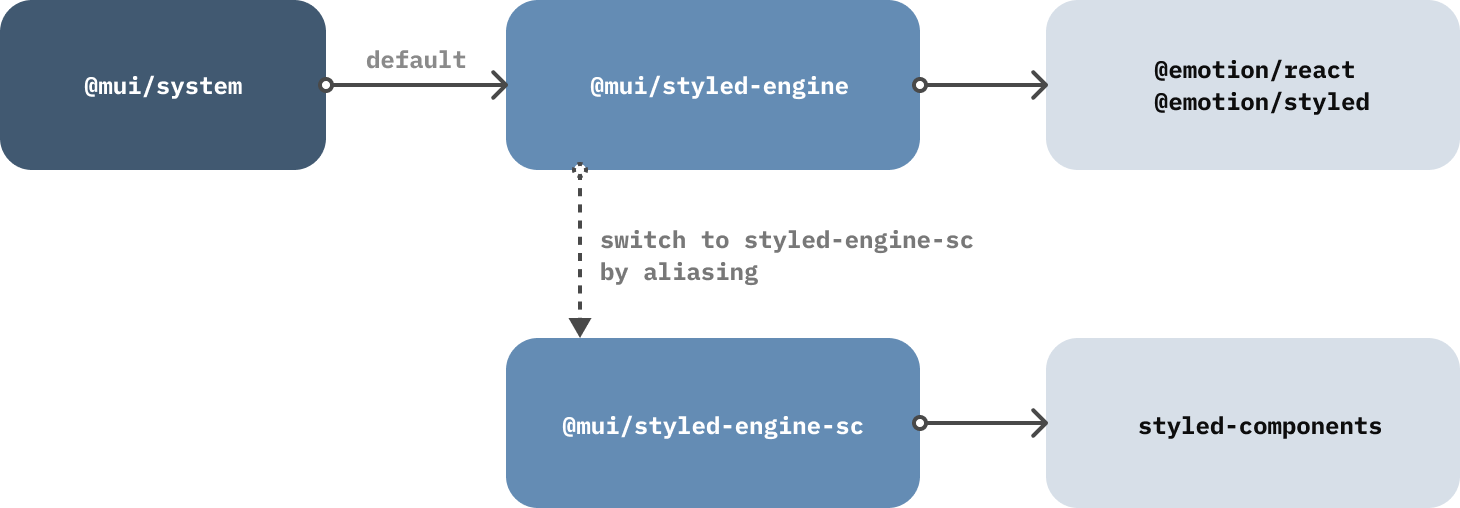
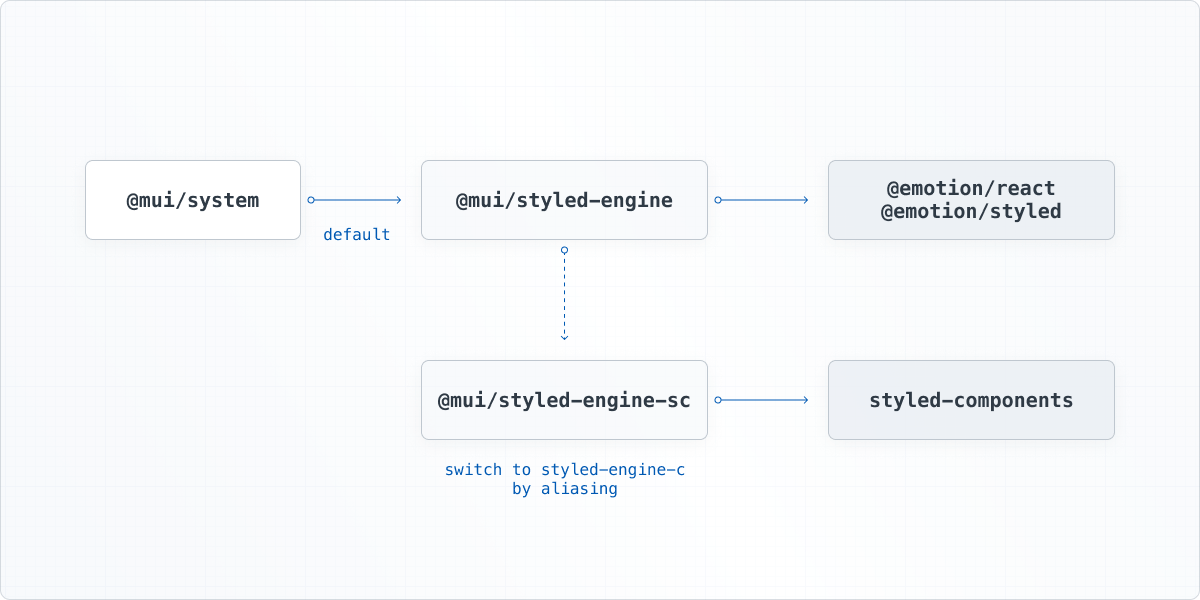
[docs] Revise the "Understanding MUI packages" article (#32382)

diff --git a/docs/data/material/guides/understand-mui-packages/understand-mui-packages.md b/docs/data/material/guides/understand-mui-packages/understand-mui-packages.md
@@ -2,107 +2,63 @@
 
 <p class="description">An overview of the MUI packages and the relationships between them.</p>
 
-## TL;DR
+## Overview
 
-- Use `@mui/material` if you want to use the components following the Material Design guidelines.
+- If you want to build a design system based on Material Design, use `@mui/material`.
+- If you want to build with components that give you complete control over your app's CSS, use `@mui/base`.
   :::info
-  💡 You can import styling APIs (eg. `ThemeProvider`, `styled`, etc.) directly from `@mui/material`.
+  MUI Base components are also included within`@mui/material`—no need to install Base separately if you're using Material UI.
   :::
-- Use `@mui/base` if you want to style the components from scratch using your preferred styling method.
-  :::info
-  💡 This package can be imported alongside `@mui/material` without an installation.
-  :::
-- Use `@mui/system` if you want APIs that enable building your own design system from scratch.
+- For CSS utilities to help in laying out custom designs with Material UI or MUI Base, use `@mui/system`.
+
+### Glossary
+
+- **install** refers to running `yarn add $module` or `npm install $module`.
+- **import** refers to making a module API available in your code by adding `import ... from '$module'`.
 
 ## MUI packages
 
 The following is an up-to-date list of `@mui` public packages.
 
 - `@mui/material`
-- `@mui/system`
 - `@mui/base`
+- `@mui/system`
 - `@mui/styled-engine`
 - `@mui/styled-engine-sc`
 - `@mui/styles`
 
-**Why does MUI have multiple packages? Why not just one?**
+### Understanding MUI's products
 
-MUI started as a single package that provided React Material Design components.
-However, as the library grew and more people started to use it, we saw an opportunity to break the main package down into smaller parts. For example, there was rising interest in specific use cases, such as using a version of the components without styles so as to use a preferred styling method, or using the MUI styling API to build a design system.
+As a company, MUI maintains a suite of open-source and open-core React UI projects.
+These projects live within two product lines: MUI Core and MUI X.
 
-For this reason, abstracting into smaller packages not only allows MUI to grow out of Material Design, but also extends how the library can be used, providing more flexibility and customizability.
+The following chart illustrates how MUI's packages are related to one another:
 
-The packages can be categorized into 3 layers, as shown in the picture below:
+<img src="/static/images/packages/mui-packages.png" style="width: 796px; margin-top: 4px; margin-bottom: 8px;" alt="The first half of the image shows @mui/material and @mui/base as component libraries, and @mui/system and styled engines as styling solutions, both under the MUI Core umbrella. The second half shows @mui/x-data-grid and @mui/x-date-pickers as components from MUI X."/>
 
-<img src="/static/images/packages/mui-packages.png" style="display: block; width: 448px; margin: auto;" />
+In this article, we'll only cover the MUI Core packages.
+Check the [MUI X overview](/x/getting-started/overview) for more information about our collection of advanced components.
 
-Let's take a look at each layer to understand how they work together, starting from the bottom:
+## Component libraries
 
-> 📖 Glossary
->
-> - **install** refers to running `yarn add $module` or `npm install $module`.
-> - **import** refers to making a module API available in your code by adding `import ... from '$module'`.
+### Material UI
 
-## Styled engines
+Material UI is a comprehensive library of components that features our implementation of Google's Material Design.
 
-This layer is specifically related to stylesheet generation (CSS-in-JS).
-MUI has introduced new styled-engines in v5 to unlock more possibilities and enable enhanced customization.
-Usually, developers do not need to interact with this layer on a daily basis because it is used internally in `@mui/system`.
+Both `@mui/base` and `@mui/system` are included as dependencies, meaning you don't need to install or import them separately—you can import them directly from `@mui/material`.
 
-They come in two packages:
+### MUI Base
 
-- `@mui/styled-engine` : an [emotion](https://emotion.sh/docs/styled) wrapper.
-- `@mui/styled-engine-sc` : a [styled-components](https://styled-components.com/docs/basics#getting-started) wrapper.
+[MUI Base](/base/getting-started/overview/) is our library of "unstyled" components and hooks.
+With Base, you gain complete control over your app's CSS and accessibility features.
 
-These adapters unify the APIs of both `emotion` and `styled-components`, so that developers can choose to use whichever suits them best.
+The Base package includes prebuilt components with production-ready functionality, along with low-level hooks for transferring that functionality to other components.
 
-The previous style library `@mui/styles` (JSS wrapper) is deprecated and will be removed in the future.
+### Using them together
 
-> The details about the change in styling solution are in [this RFC](https://github.com/mui/material-ui/issues/22342).
+Imagine you're working on an application that uses `@mui/material` with a custom theme, and you need to develop a new switch component that looks very different from the one found in Material Design.
 
-## System
-
-There is only one package in this layer - `@mui/system`.
-
-It uses the emotion adapter (`@mui/styled-engine`) as the default styled-engine to create APIs for building a design system from scratch. For example, [`styled`](/system/styled/#main-content) from the styled-engine is enhanced to provide more theming capabilities.
-
-If you want to switch the styled-engine to use styled-components, [follow this guide](/material-ui/guides/styled-engine/#how-to-switch-to-styled-components).
-
-<img src="/static/images/packages/mui-system.png" style="display: block; width: 720px; margin: 40px auto;" />
-
-Here are some benefits:
-
-- You have full control of the `theme` object.
-- The `styled` API supports the `sx` prop by default.
-- Components created with `styled` are themeable via slots & variants.
-
-> **Note**: you will have to install either `emotion` or `styled-components`, because the respective styled-engine package depends on it.
-
-## Base
-
-The base layer, `@mui/base`, is also known as unstyled components.
-
-It provides only React component functionality and accessibility features without any styles. It's very useful if you want to take full control of the styling, but don't want to spend time building components from scratch.
-
-Since it doesn't rely on any specific styling solution, you can pick a method that best fits your needs, from pure CSS to CSS-in-JS.
-
-For more details, check out the [unstyled components page](/material-ui/customization/unstyled-components/)
-
-## Design system
-
-This is the most used layer (based on npm downloads) because it comes with everything you need to get started:
-
-- Theming capabilities (has `@mui/system` as dependency).
-- Accessible components, and utility hooks (has `@mui/base` as dependency).
-- Default styles based on the design language being followed.
-
-Currently, MUI has one package in the design system layer, `@mui/material`, but we plan to add more in the future.
-This package provides components that follow the Material Design guidelines and also re-exports necessary APIs from its dependencies.
-Since it has `@mui/system` and `@mui/base` as dependencies, you don't need to install or import them separately.
-Instead, you should import any modules you need from `@mui/material` directly.
-
-There are, however, some cases where you might want to use building blocks from `@mui/base` instead. Let's imagine we're working on an application that mainly uses `@mui/material` with a custom theme and we've been given a Switch component design to develop that is very different from the one found in Material Design.
-In this case, instead of overriding the `Switch` from `@mui/material` we could use the `styled` API to customize the unstyled version of the Switch, available in `@mui/base`, from scratch:
+In this case, instead of overriding all the styles on the Material UI `Switch` component, you can use the `styled` API to customize the Base `SwitchUnstyled` component from scratch:
 
 ```js
 import { styled } from '@mui/material/styles';
@@ -129,3 +85,44 @@ export default function CustomSwitch() {
   return <SwitchUnstyled component={Root} {...label} />;
 }
 ```
+
+## Styling
+
+### Styled engines
+
+Material UI relies on styling engines to inject CSS into your app.
+These engines come in two packages:
+
+- `@mui/styled-engine`
+- `@mui/styled-engine-sc`
+
+By default, Material UI uses [emotion](https://emotion.sh/docs/styled) as its styling engine—it's included in the [installation](/material-ui/getting-started/installation) process.
+If you plan to stick with emotion, then `@mui/styled-engine` is a dependency in your app, and you don't need to install it separately.
+
+If you prefer to use [styled-components](https://styled-components.com/docs/basics#getting-started), then you need to install `@mui/styled-engine-sc` in place of the emotion packages.
+See the [Styled engine guide](/material-ui/guides/styled-engine/) for more details.
+
+In either case, you won't interact much with either of these packages beyond installation—they're used internally in `@mui/system`.
+
+:::warning
+⚠ **Note:** prior to v5, Material UI used `@mui/styles` as a JSS wrapper.
+This package is now deprecated and will be removed in the future.
+Check out [the guide to migrating from v4 to v5](https://mui.com/material-ui/guides/migration-v4/) to learn how to upgrade to a newer solution.
+:::
+
+### MUI System
+
+MUI System is a collection of CSS utilities to help you rapidly lay out custom designs.
+It uses the emotion adapter (`@mui/styled-engine`) as the default style engine to create the CSS utilities.
+
+#### Advantages of MUI System
+
+- You have full control of the `theme` object.
+- You can use `sx` prop normally as the `styled` API supports it by default.
+- You can have themeable components by using `styled` via slots and variants.
+
+:::warning
+To use MUI System, you must install either emotion or styled-components, because the respective `styled-engine` package depends on it.
+:::
+
+<img src="/static/images/packages/mui-system.png" style="width: 796px; margin-top: 4px; margin-bottom: 8px;" alt="A diagram showing an arrow going from @mui/system to @mui/styled-engine, with a note that it is the default engine. Then, from @mui/styled-engine a solid arrow points to @emotion/react and @emotion/styled while a dashed arrow points to @mui/styled-engine-sc, which points to styled-components." />
